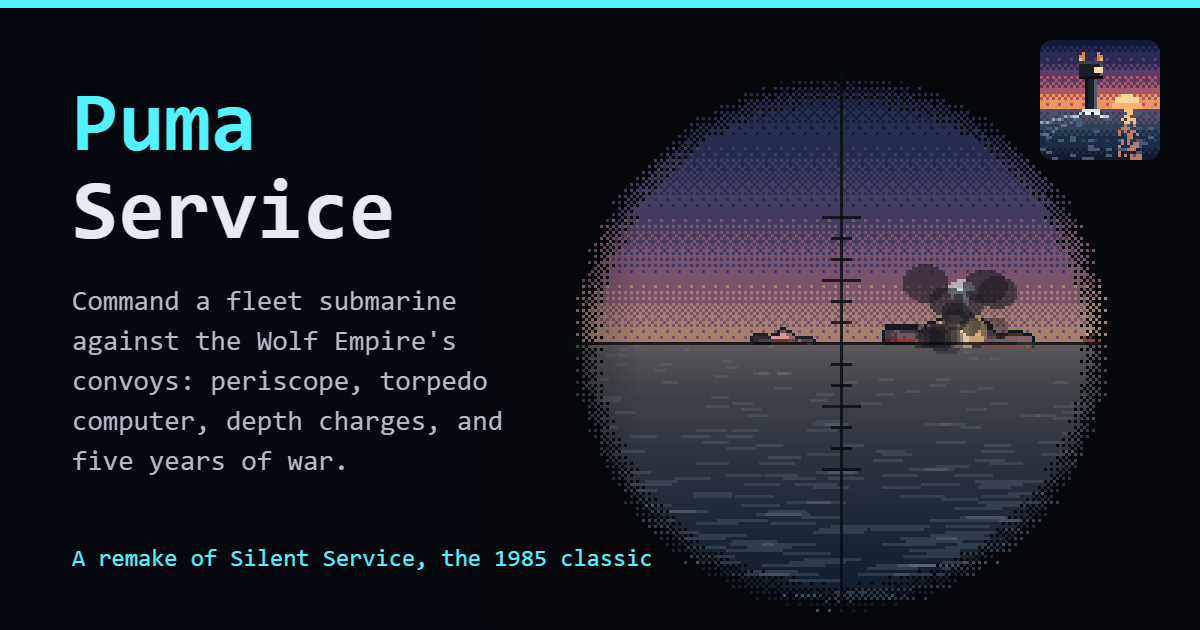
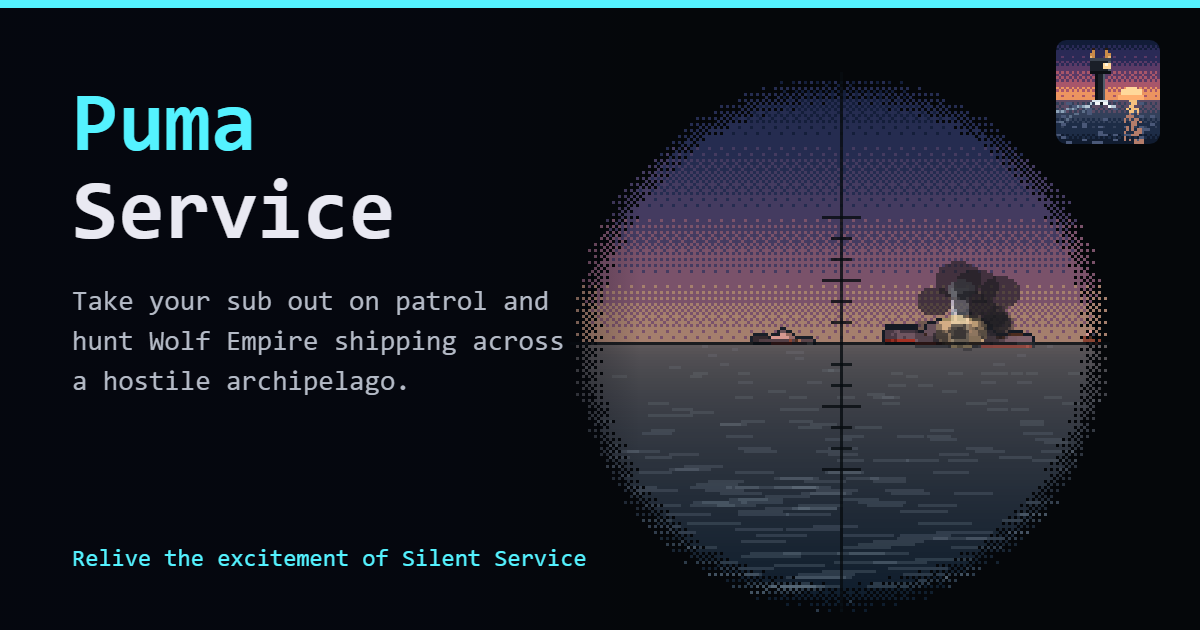
Share card: the owner's words
The card now says "Take your sub out on patrol and hunt Wolf Empire
shipping across a hostile archipelago" under the wordmark, with "Relive
the excitement of Silent Service" as its tagline, and the icon is a
little smaller so it clears the periscope ring. The page description is
one string again across description, Open Graph, Twitter and the
manifest ("as a puma submarine captain", not "in a puma fleet
submarine"), and the image alt names the burning ship.

diff --git a/index.html b/index.html
@@ -4,23 +4,23 @@
 <meta charset="UTF-8">
 <meta name="viewport" content="width=device-width, initial-scale=1.0, viewport-fit=cover">
 <title>Puma Service</title>
-<meta name="description" content="Hunt Wolf Empire convoys across a hostile archipelago in a puma fleet submarine: periscope, torpedo data computer, depth charges and five years of war. A remake of Silent Service, the 1985 Commodore 64 classic.">
+<meta name="description" content="Hunt Wolf Empire convoys across a hostile archipelago as a puma submarine captain: periscope, torpedo data computer, depth charges and five years of war. A remake of Silent Service, the 1985 Commodore 64 classic.">
 <meta name="theme-color" content="#05070f">
 <meta name="color-scheme" content="dark">
 <meta name="referrer" content="no-referrer">
 <meta property="og:title" content="Puma Service">
-<meta property="og:description" content="Hunt Wolf Empire convoys across a hostile archipelago in a puma fleet submarine: periscope, torpedo data computer, depth charges and five years of war. A remake of Silent Service, the 1985 Commodore 64 classic.">
+<meta property="og:description" content="Hunt Wolf Empire convoys across a hostile archipelago as a puma submarine captain: periscope, torpedo data computer, depth charges and five years of war. A remake of Silent Service, the 1985 Commodore 64 classic.">
 <meta property="og:type" content="website">
 <meta property="og:image" content="https://greykit.com/games/pumaservice/og.png">
 <meta property="og:image:width" content="1200">
 <meta property="og:image:height" content="630">
-<meta property="og:image:alt" content="Puma Service: a periscope view of a Wolf Empire convoy at dusk.">
+<meta property="og:image:alt" content="Puma Service: a periscope view of a Wolf Empire convoy at dusk, one ship hit and burning.">
 <meta property="og:url" content="https://greykit.com/games/pumaservice/">
 <meta name="twitter:card" content="summary_large_image">
 <meta name="twitter:title" content="Puma Service">
-<meta name="twitter:description" content="Hunt Wolf Empire convoys across a hostile archipelago in a puma fleet submarine: a remake of Silent Service, the 1985 Commodore 64 classic.">
+<meta name="twitter:description" content="Hunt Wolf Empire convoys across a hostile archipelago as a puma submarine captain: periscope, torpedo data computer, depth charges and five years of war. A remake of Silent Service, the 1985 Commodore 64 classic.">
 <meta name="twitter:image" content="https://greykit.com/games/pumaservice/og.png">
-<meta name="twitter:image:alt" content="Puma Service: a periscope view of a Wolf Empire convoy at dusk.">
+<meta name="twitter:image:alt" content="Puma Service: a periscope view of a Wolf Empire convoy at dusk, one ship hit and burning.">
 <link rel="manifest" href="manifest.webmanifest">
 <link rel="apple-touch-icon" href="apple-touch-icon.png">
 <link rel="icon" type="image/svg+xml" href="icon.svg">

diff --git a/tools/og.html b/tools/og.html
@@ -11,7 +11,6 @@
      is its data URL), or screenshot it headless at 1200x630:
        msedge --headless --hide-scrollbars --window-size=1200,630
               --screenshot=og.png http://127.0.0.1:8769/tools/og.html
-     The description and tagline are placeholders until the owner words them.
      Not deployed. -->
 <style>body{margin:0;background:#222;overflow:hidden}canvas{display:block}</style>
 </head>
@@ -60,13 +59,13 @@ function main() {
   g.fillStyle = "#54f2ff"; g.fillText("Puma", 72, 150);
   g.fillStyle = "#e9e9f2"; g.fillText("Service", 72, 238);
   g.font = `28px ${mono}`; g.fillStyle = "#b4bac6";
-  const words = "Command a fleet submarine against the Wolf Empire's convoys: periscope, torpedo computer, depth charges, and five years of war.".split(" "), lines = [""];
+  const words = "Take your sub out on patrol and hunt Wolf Empire shipping across a hostile archipelago.".split(" "), lines = [""];
   for (const w of words) { const t = lines[lines.length - 1] ? lines[lines.length - 1] + " " + w : w; if (g.measureText(t).width > 500) lines.push(w); else lines[lines.length - 1] = t; }
   lines.forEach((l, i) => g.fillText(l, 72, 310 + i * 40));
   g.font = `24px ${mono}`; g.fillStyle = "#54f2ff";
-  g.fillText("A remake of Silent Service, the 1985 classic", 72, 566);
+  g.fillText("Relive the excitement of Silent Service", 72, 566);
   const img = new Image();
-  img.onload = () => { g.drawImage(img, 1040, 40, 120, 120); window.ogReady = true; document.title = "ready"; };
+  img.onload = () => { g.drawImage(img, 1056, 40, 104, 104); window.ogReady = true; document.title = "ready"; };
   img.src = "../icon.svg?" + Date.now();
   window.ogPNG = () => cv.toDataURL("image/png");
 })();
